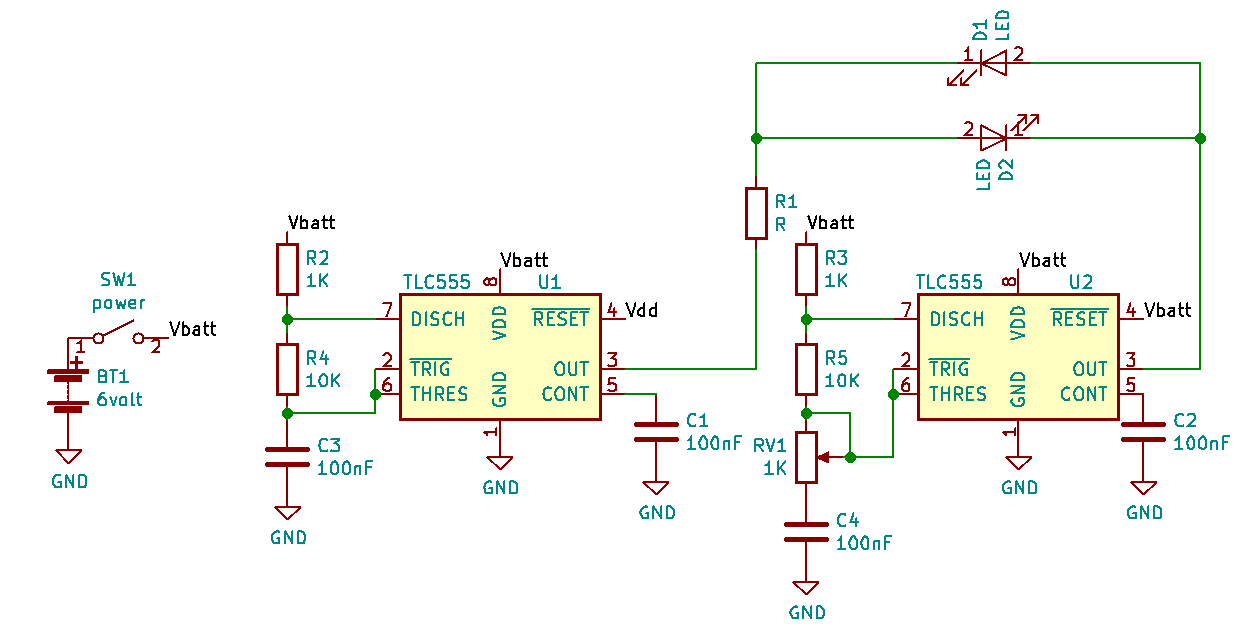
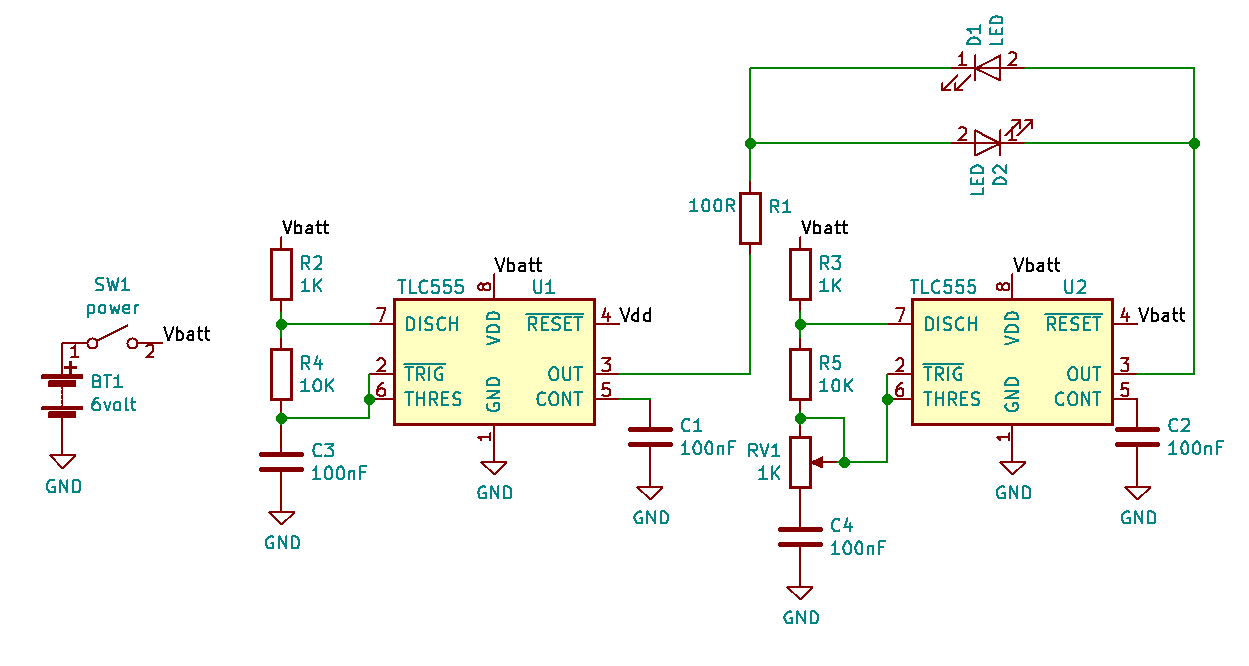
modification to schematic

Changed region(s): [[0.1873, 0.0, 0.9992, 0.9657], [0.0312, 0.405, 0.1873, 0.7788], [0.7494, 0.1869, 0.8431, 0.2804]]

diff --git a/readme.md b/readme.md
@@ -14,4 +14,5 @@ where
 
 ![555 fading LED](555_fading.png)
 
+The two LEDs are in anti-phase, meaning when one is at maximum brigthness the other is at minimum.
 
